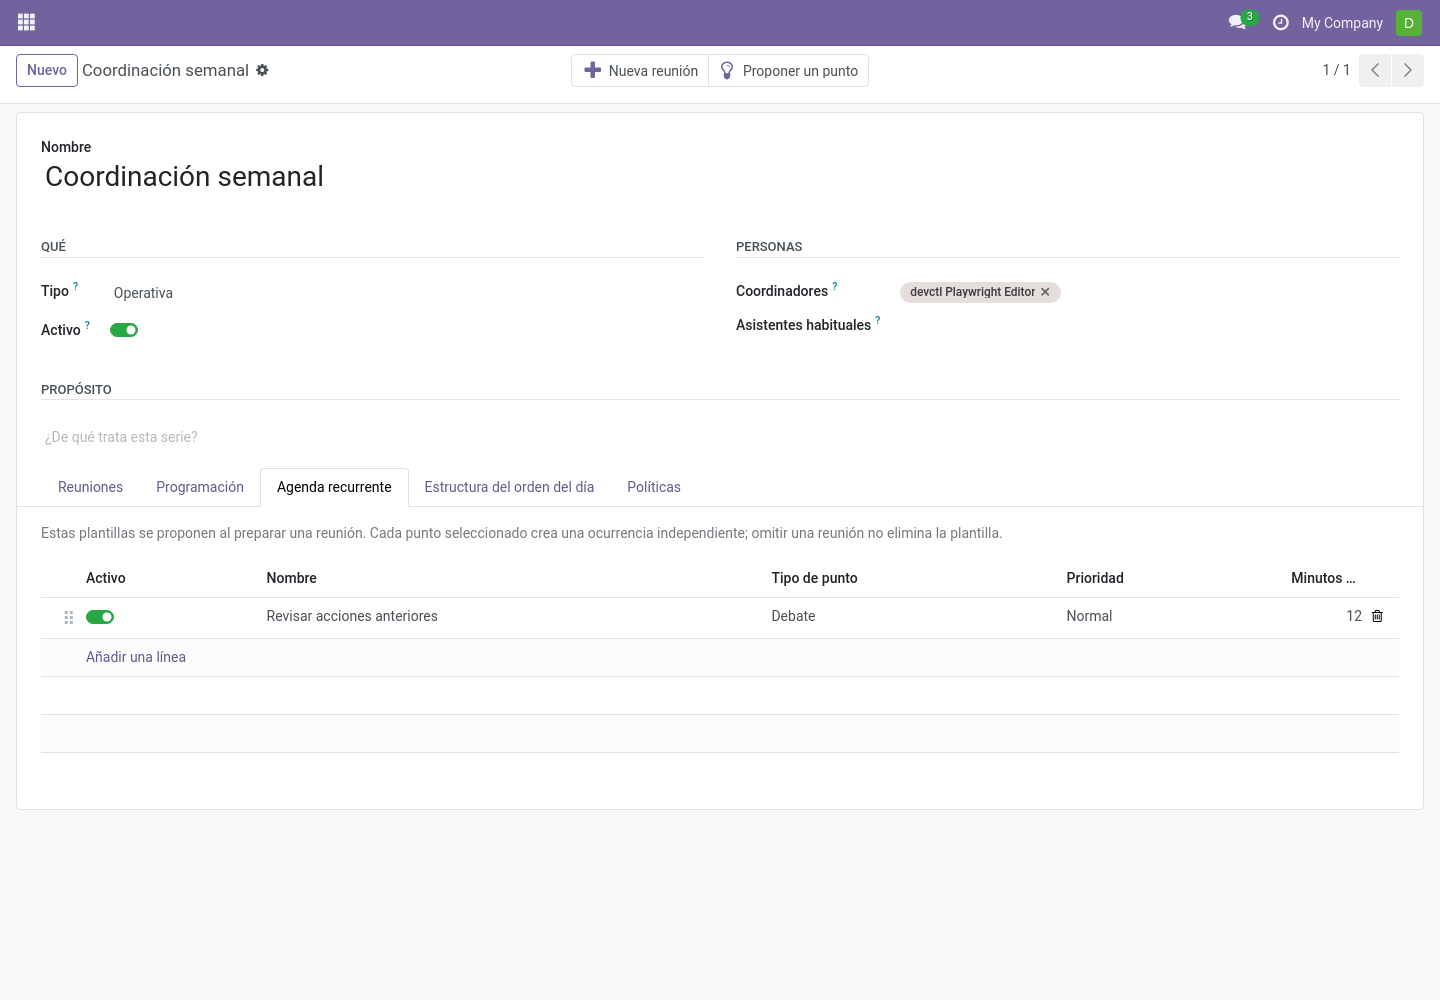
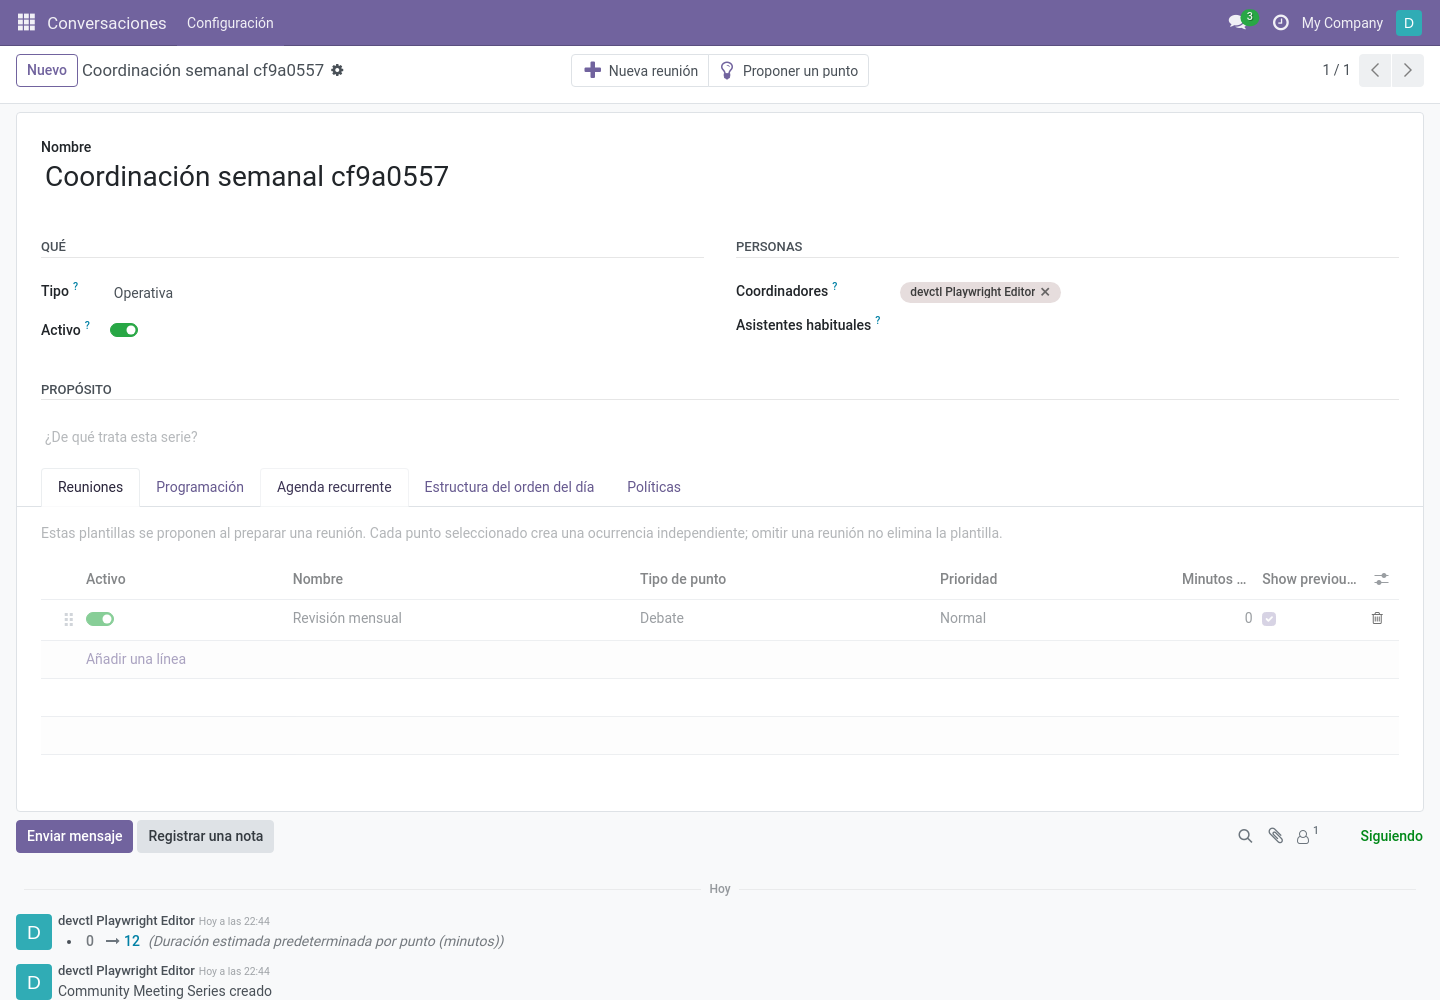
docs: refresh meeting series screenshots

diff --git a/docs/user_es/admin/series.md b/docs/user_es/admin/series.md
@@ -33,6 +33,8 @@ habituales y los tipos de seguimiento permitidos.
 Con el módulo Project, también quedan registrados el destino del proyecto y
 los cambios en la política de tareas.
 
+![Cambios de configuración de la serie registrados en el chatter](../img/series-change-history.png)
+
 ## Cabecera: Qué y Personas
 
 | Campo | Significado |

diff --git a/docs/user/admin/series.md b/docs/user/admin/series.md
@@ -30,6 +30,8 @@ including changes to coordinators, usual attendees and allowed follow-up types.
 With the Project addon, project destination and task policy changes are logged
 there as well.
 
+![Series setting changes recorded in the chatter](../img/series-change-history.png)
+
 ## Header: What and People
 
 | Field | Meaning |
